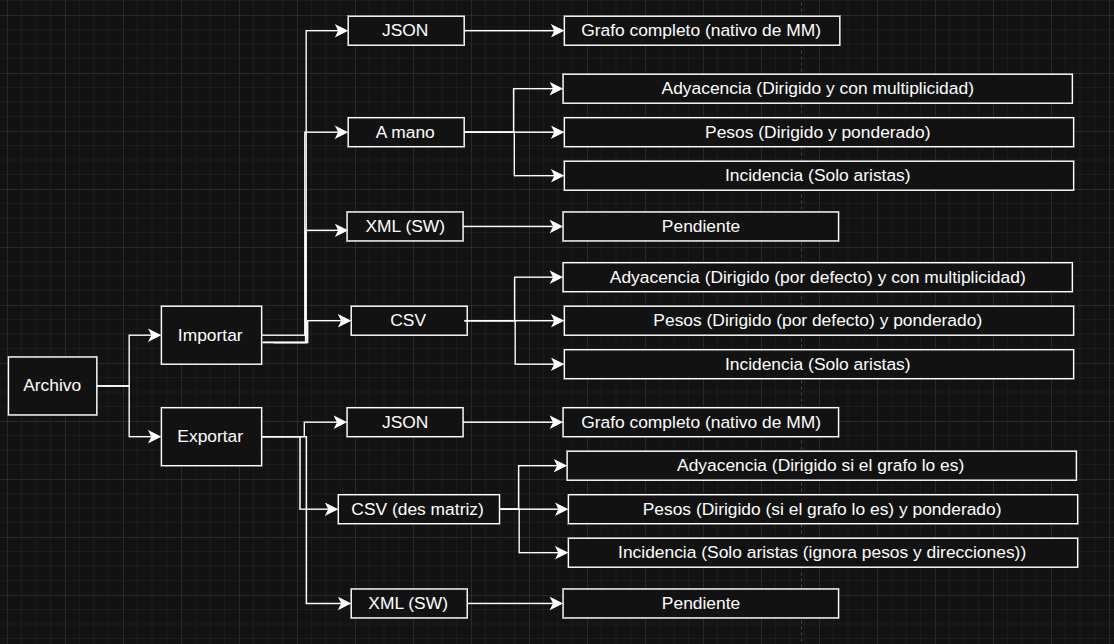
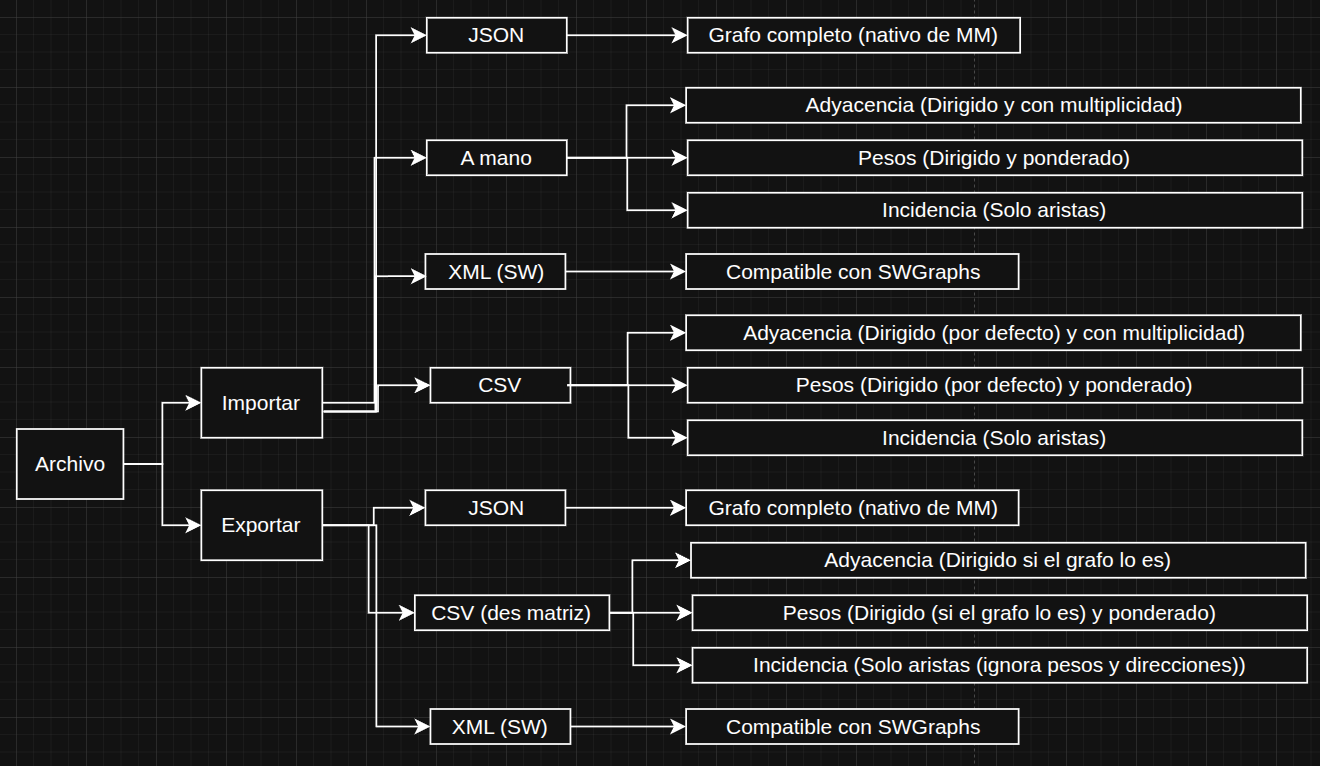
Update doc

Changed region(s): [[0.0, 0.0, 1.0, 0.9938]]

diff --git a/README.md b/README.md
@@ -17,6 +17,7 @@ Además de un modo legacy para aquellos usuarios que venga de editores más anti
 - [🧠 Algorítmos](#-algorítmos)
 - [🧮 Matrices del grafo](#-matrices-del-grafo)
 - [📂 Importaciones y Exportaciones](#-importaciones-y-exportaciones)
+- [⚙ Opciones de grafo](#-opciones-del-grafo)
 
 ### 🛠 Índice técnico
 - [🧱 Arquitectura del Estado del Grafo](#-arquitectura-del-estado-del-grafo)
@@ -223,7 +224,7 @@ El propio programa permite importar estas 3 matrices a partir de la propia inter
 
 #### Por un grafo de SwGraphs (.xml)
 
-Pendiente de ser implementado
+Simplemente el programar permite importar un fichero .xml con el formato de SWGraphs
 
 ### Exportaciones
 
@@ -240,7 +241,7 @@ relación la suma de los pesos de las aristas paralelas que lleven la misma dire
 
 #### Por un grafo de SwGraphs (.xml)
 
-Pendiente de ser implementado
+Simplemente el programar permite exportar un fichero .xml con el formato de SWGraphs
 
 ### Guía de errores a la hora de importar un grafo
 
@@ -259,6 +260,46 @@ Aquí se pueden dar 3 tipos de errores:
 Aquí pueden haber 2 tipos de errores:
 * [InvalidCSVFormat](./assets/csvErrors/InvalidCSVFormat.csv): el formato del CSV es incorrecto
 * [InvalidCSVIncidenceColumn](./assets/csvErrors/InvalidCSVIncidenceColumn.csv): cuando una columna suma un número disintos de 0 y de 2
+
+#### Archivo .xml
+* [InvalidXMLFormat](./assets/xmlError/InvalidXMLFormat.xml): el formato del xml es incorrecto
+
+---
+
+## ⚙ Opciones de grafo
+
+### Información del grafo
+
+///
+
+### Grados de los vértices
+///
+
+### Grafo subyacente
+
+Convierte el grafo a no dirigido, si el grafo es dirigido y tiene 2 aristas entre 2 vértices de direcciones opuestas
+y con el mismo peso, elimina una de ellas.
+
+### Convertir a dirigido (bidireccional)
+
+Realiza la acción contraria al **Grafo subyacente**.
+
+#### Si el grafo es **no dirigido**
+- Cada arista `{u, v}` se convierte en **dos aristas dirigidas**:
+  - `u → v`
+  - `v → u`
+- Ambas mantienen el mismo peso que la arista original.
+- El grafo pasa a ser dirigido.
+
+#### Si el grafo es **dirigido**
+- Para cada par de vértices conectados:
+  - Se agrupan las aristas por **peso**.
+  - Para cada peso `w`, si **todas** las aristas con peso `w` entre esos dos vértices van en **una única dirección**,
+    se añade **una arista** en la dirección opuesta con el mismo peso `w`.
+  - Si ya existe una arista de peso `w` en ambos sentidos, **no se añade nada** para ese peso.
+
+
+Esta operación garantiza la **bidireccionalidad mínima**, sin alterar las multiplicidades ni duplicar aristas innecesariamente.
 
 ---
 
@@ -331,4 +372,3 @@ La curvatura de la arista se obtiene aplicando una curva de Bézier, como se mue
 ![bezier_curvatura](/assets/beizer.jpg)
 
 ---
-
